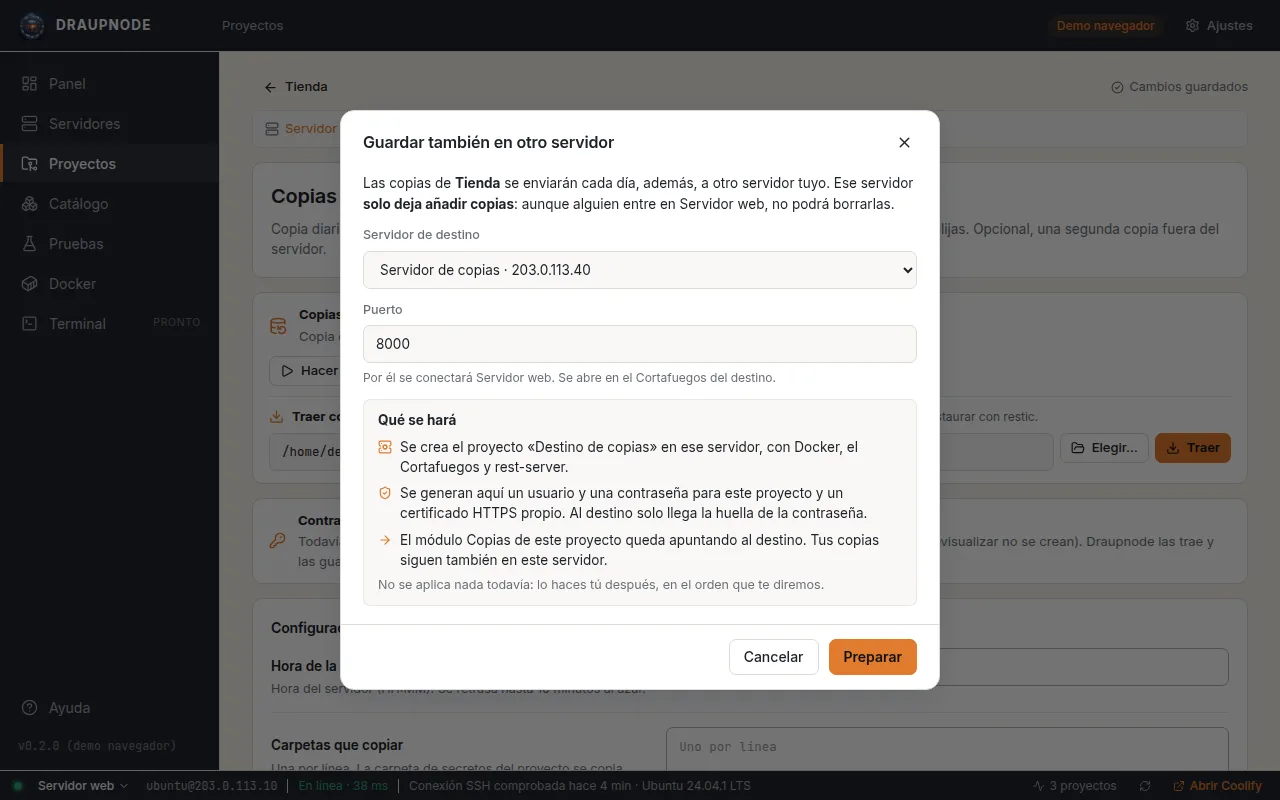
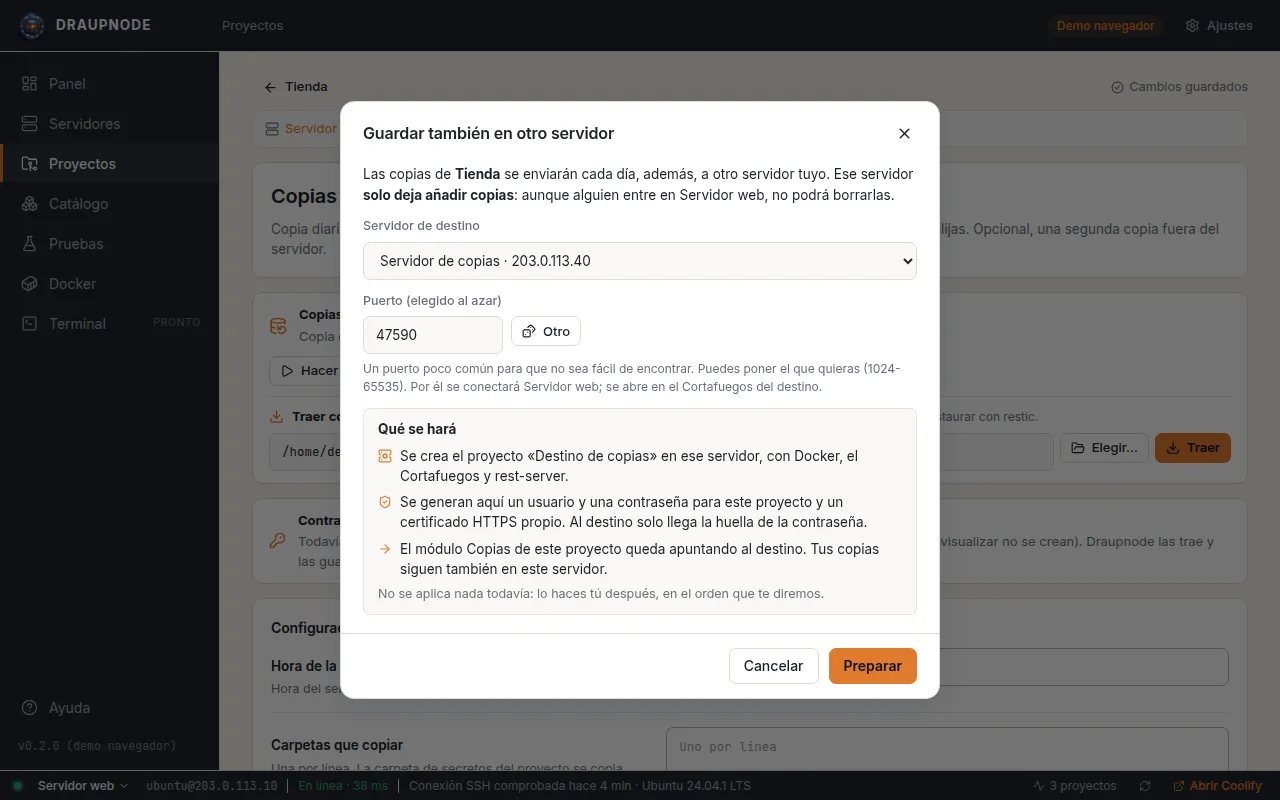
0.18.1: destino de copias con puerto al azar (se enseña y se puede cambiar)

Changed region(s): [[0.25, 0.125, 0.75, 0.75], [0.25, 0.7812, 0.75, 0.875], [0.6875, 0.3125, 0.7188, 0.3438]]

diff --git a/frontend/src/components/BackupTargetDialog.svelte b/frontend/src/components/BackupTargetDialog.svelte
@@ -1,7 +1,7 @@
 <script lang="ts">
   // «Guardar también en otro servidor»: crea (o reutiliza) el proyecto
   // «Destino de copias» en el servidor elegido y deja este proyecto apuntando a él.
-  import { ServerCog, ShieldCheck, LoaderCircle, CircleCheck, ArrowRight, TriangleAlert } from '@lucide/svelte'
+  import { ServerCog, ShieldCheck, LoaderCircle, CircleCheck, ArrowRight, TriangleAlert, Dices } from '@lucide/svelte'
   import Modal from './Modal.svelte'
   import { api, errorText, type BackupTargetResult, type Project } from '../lib/api'
   import { ui, toast, withVault, refreshProjects } from '../lib/state.svelte'
@@ -12,7 +12,9 @@
   const candidates = $derived(ui.servers.filter((s) => s.id !== project.serverId && s.host !== source?.host))
   const existing = (sid: string) => ui.projects.find((p) => p.serverId === sid && p.modules.some((m) => m.id === 'backup-target'))
   let serverId = $state('')
-  let port = $state(8000)
+  // Puerto al azar (20000-60999): se enseña y se puede cambiar.
+  const randomPort = () => 20000 + Math.floor(Math.random() * 41000)
+  let port = $state(randomPort())
   let busy = $state(false)
   let result = $state<BackupTargetResult | null>(null)
 
@@ -57,11 +59,14 @@
           </select>
         </label>
         {#if target}
-          <p class="muted small">Ya tiene el proyecto «{target.name}»: se añade este proyecto a él (con su mismo puerto).</p>
+          <p class="muted small">Ya tiene el proyecto «{target.name}»: se añade este proyecto a él, con su mismo puerto ({target.modules.find((m) => m.id === 'backup-target')?.values.backup_target_port ?? '—'}).</p>
         {:else}
-          <label class="field"><span>Puerto</span>
-            <input class="input" type="number" min="1024" max="65535" bind:value={port} disabled={busy} />
-            <small>Por él se conectará {source?.name ?? 'este servidor'}. Se abre en el Cortafuegos del destino.</small>
+          <label class="field"><span>Puerto (elegido al azar)</span>
+            <div class="port">
+              <input class="input" type="number" min="1024" max="65535" bind:value={port} disabled={busy} />
+              <button class="btn sm" type="button" onclick={() => (port = randomPort())} disabled={busy} title="Elegir otro al azar"><Dices size={14} /> Otro</button>
+            </div>
+            <small>Un puerto poco común para que no sea fácil de encontrar. Puedes poner el que quieras (1024-65535). Por él se conectará {source?.name ?? 'este servidor'}; se abre en el Cortafuegos del destino.</small>
           </label>
         {/if}
         {#if local}<p class="warn"><TriangleAlert size={16} /> Ese servidor se conecta por 127.0.0.1: el servidor de origen no podrá llegar a él.</p>{/if}
@@ -111,5 +116,7 @@
   .note li { display: flex; gap: 8px; align-items: flex-start; }
   .note li :global(svg) { color: var(--accent); flex: none; margin-top: 3px; }
   ol { margin: 0; padding-left: 20px; display: flex; flex-direction: column; gap: 6px; }
+  .port { display: flex; gap: 8px; }
+  .port .input { width: 140px; }
   code { font-family: var(--mono); font-size: 12.5px; word-break: break-all; }
 </style>

diff --git a/app_backup_target.go b/app_backup_target.go
@@ -66,7 +66,7 @@ func (a *App) CreateBackupTarget(sourceProjectID, targetServerID string, port in
 		return res, errors.New("elige OTRO servidor: si las copias se guardan en el mismo, no te salvan si lo pierdes")
 	}
 	if port == 0 {
-		port = 8000
+		port = RandomTargetPort()
 	}
 	if port < 1024 || port > 65535 {
 		return res, errors.New("el puerto debe estar entre 1024 y 65535")
@@ -385,4 +385,20 @@ func certValidFor(b64, host string) bool {
 		return false
 	}
 	return c.VerifyHostname(host) == nil && time.Now().AddDate(1, 0, 0).Before(c.NotAfter)
+}
+
+// Puertos al azar para el destino: un puerto poco común es una pequeña
+// barrera más (los robots prueban los conocidos); el que manda es la contraseña.
+const (
+	targetPortMin = 20000
+	targetPortMax = 60999
+)
+
+// RandomTargetPort devuelve un puerto al azar para el destino de copias.
+func RandomTargetPort() int {
+	n, err := rand.Int(rand.Reader, big.NewInt(targetPortMax-targetPortMin+1))
+	if err != nil {
+		return 28000
+	}
+	return targetPortMin + int(n.Int64())
 }

diff --git a/app_backup_target_test.go b/app_backup_target_test.go
@@ -26,6 +26,11 @@ func TestDestinoDeCopias(t *testing.T) {
 	if err := a.vault.Create("maestra-de-prueba"); err != nil {
 		t.Fatal(err)
 	}
+	for i := 0; i < 200; i++ {
+		if p := RandomTargetPort(); p < targetPortMin || p > targetPortMax {
+			t.Fatalf("puerto fuera del rango: %d", p)
+		}
+	}
 	if _, err := a.CreateBackupTarget(src.ID, s1.ID, 8000); err == nil {
 		t.Fatal("el mismo servidor debería rechazarse")
 	}

diff --git a/app.go b/app.go
@@ -21,7 +21,7 @@ import (
 )
 
 // Version de la aplicación.
-const Version = "0.18.0"
+const Version = "0.18.1"
 
 // Prefijos que la interfaz reconoce en los errores para abrir el diálogo
 // de la bóveda (crear o desbloquear) y reintentar.

diff --git a/docs/HISTORIAL.md b/docs/HISTORIAL.md
@@ -310,3 +310,7 @@ Dos módulos que hacen lo mismo, para elegir (categoría 3 · Plataformas). No p
 - Canales (código abierto o gratuitos): **ntfy** (ntfy.sh o tu servidor; con token opcional; título en UTF-8 codificado RFC 2047, prioridad alta en los problemas) o **Telegram** (token del bot en la bóveda + número de chat). Con ntfy y el tema vacío, el servidor genera uno secreto de 28 caracteres que vuelve a la bóveda.
 - **En la app** (página del módulo): «Enviar aviso de prueba», «Qué ve ahora» (`AlertsRun`) y «Suscribirse en el móvil» (pide la contraseña de la bóveda y enseña la dirección del tema con su QR).
 - **Probado** en dos Ubuntu 24.04 desechables con la app por dentro y un ntfy falso en el otro servidor: aviso de prueba, disco por encima del umbral (un ext4 de 40 MB montado para la prueba) y servidor que no responde llegan con su tema secreto; una tercera comprobación no repite; al arreglarlo llegan los dos «Resuelto»; «Qué ve ahora» → «Sin problemas.»; desinstalar quita temporizadores y script. Sin probar: Telegram y ntfy.sh de verdad (la prueba no manda nada fuera).
+
+## 2026-11-21 · 0.18.1 · Destino de copias: puerto al azar
+
+- Petición del usuario: el puerto del destino ya no es el 8000 fijo. La ventana propone uno al azar entre 20000 y 60999, lo enseña y deja cambiarlo (o pedir «Otro»). Si el servidor ya es destino, se usa su puerto y se dice cuál es. Sin puerto, el backend también elige uno al azar (`RandomTargetPort`).
